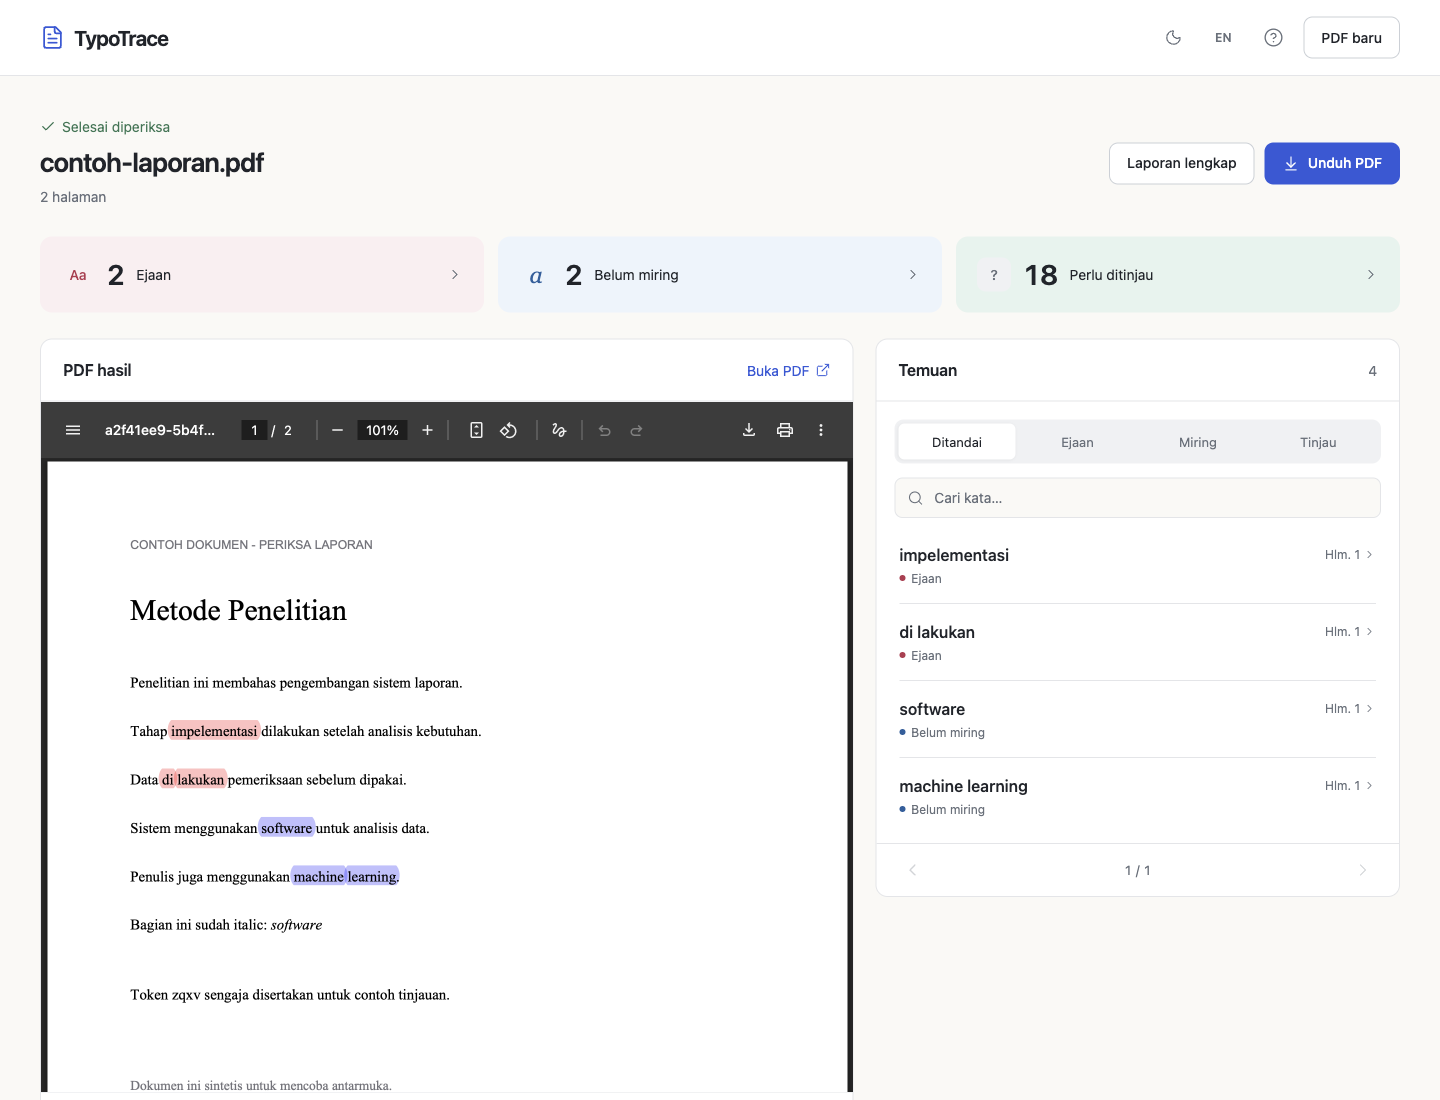
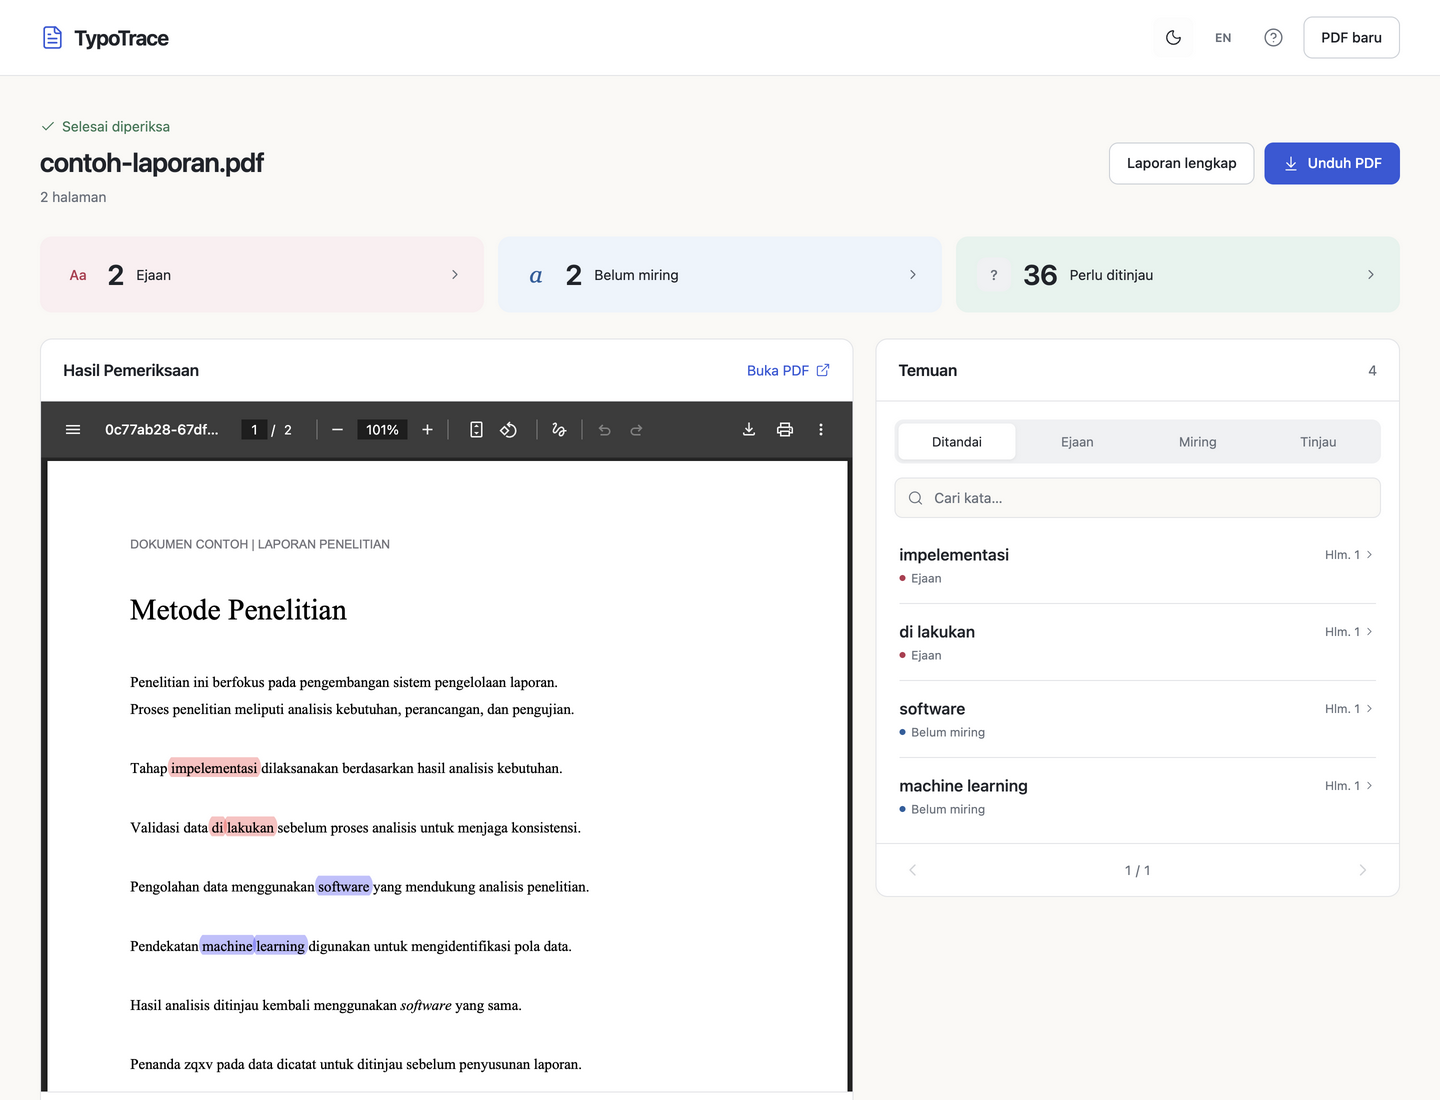
copy: label document preview as review results

diff --git a/src/components/review/ReviewWorkspace.tsx b/src/components/review/ReviewWorkspace.tsx
@@ -284,7 +284,7 @@ export default function ReviewWorkspace() {
         {!!result.coverage?.unreadable_pages && <p className="coverage-note">{number(result.coverage.unreadable_pages)} {say("halaman tidak memiliki teks yang dapat dibaca dan belum diperiksa.", "pages have no readable text and could not be reviewed.")}</p>}
         <div className="review-workspace">
           <section ref={previewPane} className="preview-pane" aria-labelledby="previewHeading">
-            <div className="pane-title"><h2 id="previewHeading">{say("PDF hasil", "Reviewed PDF")}</h2><a className="text-button" href={preview} target="_blank" rel="noopener">{say("Buka PDF", "Open PDF")}<ExternalLink/></a></div>
+            <div className="pane-title"><h2 id="previewHeading">{say("Hasil Pemeriksaan", "Review Results")}</h2><a className="text-button" href={preview} target="_blank" rel="noopener">{say("Buka PDF", "Open PDF")}<ExternalLink/></a></div>
             <div className="preview-canvas"><iframe key={`${job.id}-${pdfPage}`} src={preview} title={say("Pratinjau PDF hasil pemeriksaan", "Reviewed PDF preview")}/></div>
             <div className="pdf-pagination"><button className="icon-button" disabled={pdfPage <= 1} onClick={() => setPdfPage(p => Math.max(1, p - 1))} aria-label={say("Halaman PDF sebelumnya", "Previous PDF page")}><ChevronLeft/></button><span>{say("Halaman", "Page")} {pdfPage} / {result.total_pages}</span><button className="icon-button" disabled={pdfPage >= result.total_pages} onClick={() => setPdfPage(p => Math.min(result.total_pages, p + 1))} aria-label={say("Halaman PDF berikutnya", "Next PDF page")}><ChevronRight/></button></div>
           </section>
